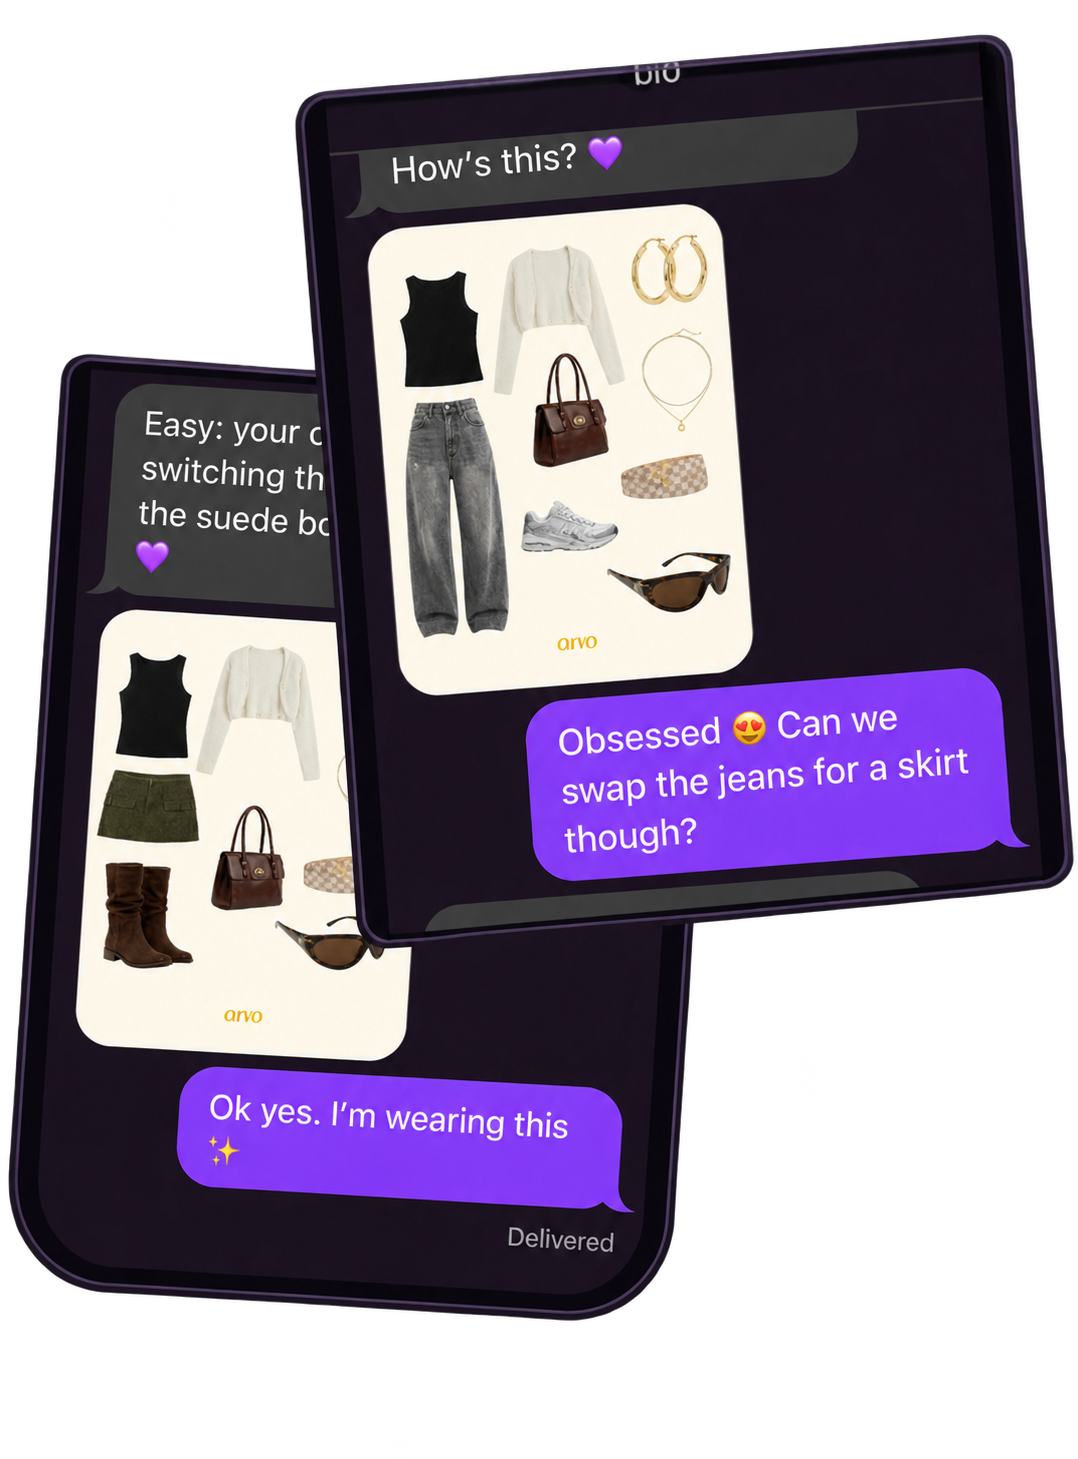
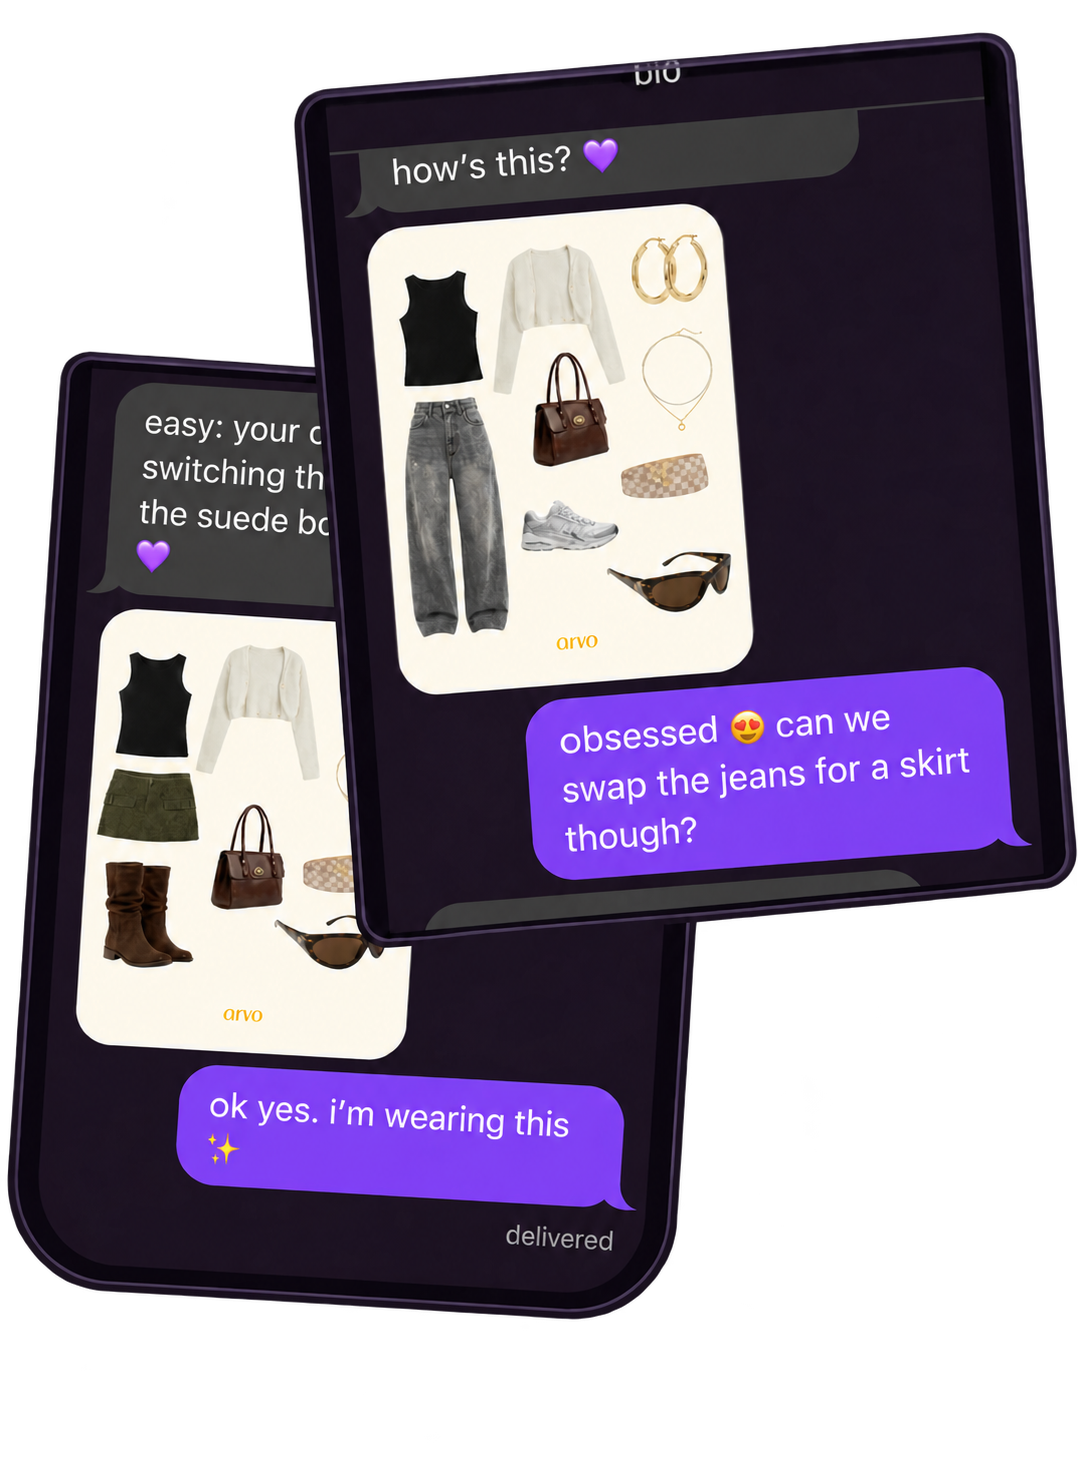
Keep landing copy lowercase and add a menswear demo

diff --git a/src/lib/seo.js b/src/lib/seo.js
@@ -2,9 +2,9 @@ import { PRODUCT_FAQS } from './faqs.js'
 
 export const SITE_URL = 'https://www.askoro.now'
 export const SITE_NAME = 'oro'
-export const SITE_TITLE = 'oro - Your AI stylist, one text away'
+export const SITE_TITLE = 'oro - your ai stylist, one text away'
 export const DEFAULT_DESCRIPTION =
-  'Nothing to wear? Ask oro and discover the gold in your wardrobe.'
+  'nothing to wear? ask oro and discover the gold in your wardrobe.'
 export const DEFAULT_IMAGE = '/favicon.webp'
 export const DEFAULT_IMAGE_META = {
   type: 'image/webp',
@@ -20,33 +20,33 @@ const WEBSITE_ID = `${SITE_URL}/#website`
 export const ROUTE_SEO = {
   feedback: {
     path: '/feedback',
-    title: 'Beta feedback - oro',
-    description: 'Share your oro beta experience using your personal invitation.',
-    h1: 'Beta feedback',
+    title: 'beta feedback - oro',
+    description: 'share your oro beta experience using your personal invitation.',
+    h1: 'beta feedback',
     noindex: true,
   },
   beta: {
     path: '/beta',
-    title: 'Help us make oro yours. - oro beta',
-    description: 'Help shape the earliest oro experience. Meet the beta and our first oronauts.',
-    h1: 'Help us make oro yours.',
+    title: 'help us make oro yours. - oro beta',
+    description: 'help shape the earliest oro experience. meet the beta and our first oronauts.',
+    h1: 'help us make oro yours.',
     noindex: true,
   },
   home: {
     path: '/',
     title: SITE_TITLE,
     description: DEFAULT_DESCRIPTION,
-    h1: 'The #1 AI fashion stylist you can text',
+    h1: 'the ai fashion assistant you can text',
     summary:
-      'oro helps you find your look, whatever your plans. Ask oro, and head out feeling good about what you’re wearing.',
+      'oro helps you find your look, whatever your plans. ask oro, and head out feeling good about what you’re wearing.',
     priority: '1.0',
   },
   'try-oro': {
     path: '/try-oro',
-    title: 'Try oro - AI outfit planner and virtual stylist app',
+    title: 'try oro - ai outfit planner and virtual stylist app',
     description:
-      'Download oro to get outfit ideas from your own clothes, preview looks with virtual try-on, and get dressed faster.',
-    h1: 'Try oro.',
+      'download oro to get outfit ideas from your own clothes, preview looks with virtual try-on, and get dressed faster.',
+    h1: 'try oro.',
     summary:
       'oro is free to start and builds outfits from your actual wardrobe in under a minute.',
     priority: '0.9',
@@ -54,21 +54,21 @@ export const ROUTE_SEO = {
   },
   'how-it-works': {
     path: '/how-it-works',
-    title: 'How oro Works - Outfit ideas from your own closet',
+    title: 'how oro works - outfit ideas from your own closet',
     description:
-      'See how oro turns your wardrobe, plans, taste, weather, and virtual try-on into outfit recommendations.',
-    h1: 'How oro works.',
+      'see how oro turns your wardrobe, plans, taste, weather, and virtual try-on into outfit recommendations.',
+    h1: 'how oro works.',
     summary:
-      'Add your closet, tell oro where you are going, preview the outfit, and leave with a look made from clothes you own.',
+      'add your closet, tell oro where you are going, preview the outfit, and leave with a look made from clothes you own.',
     priority: '0.8',
     faqs: PRODUCT_FAQS,
   },
   'why-oro': {
     path: '/why-oro',
-    title: 'Why oro - Personal styling without buying more clothes',
+    title: 'why oro - personal styling without buying more clothes',
     description:
       'oro is built around your closet, your taste, your body, and your week, so style recommendations feel personal.',
-    h1: 'Why oro?',
+    h1: 'why oro?',
     summary:
       'oro thinks through color, silhouette, occasion, weather, and taste so your wardrobe is easier to use.',
     priority: '0.8',
@@ -86,32 +86,32 @@ export const ROUTE_SEO = {
   },
   manifesto: {
     path: '/honestly',
-    title: 'Honestly - What oro believes about style',
+    title: 'honestly - what oro believes about style',
     description:
-      'Six short beliefs behind oro: personal style, confidence, better outfits, and making the most of your wardrobe.',
-    h1: 'Honestly.',
+      'six short beliefs behind oro: personal style, confidence, better outfits, and making the most of your wardrobe.',
+    h1: 'honestly.',
     summary:
       'oro believes fashion should work for your life, and that the best outfit may already be in your wardrobe.',
     priority: '0.6',
   },
   contact: {
     path: '/contact',
-    title: 'Contact oro - Help, press, partnerships, and feedback',
+    title: 'contact oro - help, press, partnerships, and feedback',
     description:
-      'Contact oro for support, press, partnerships, careers, feedback, or questions about the AI stylist app.',
-    h1: 'Contact oro.',
+      'contact oro for support, press, partnerships, careers, feedback, or questions about the ai stylist app.',
+    h1: 'contact oro.',
     summary:
-      'A real person at oro reads support questions, press notes, partnership inquiries, and product feedback.',
+      'a real person at oro reads support questions, press notes, partnership inquiries, and product feedback.',
     priority: '0.5',
   },
   'get-started': {
     path: '/get-started',
-    title: 'Complete Your Beta Setup - oro',
+    title: 'complete your beta setup - oro',
     description:
-      'Invited to the oro beta? Answer a few quick questions and verify the phone number on your approved invitation.',
-    h1: 'Let’s get you set up.',
+      'invited to the oro beta? answer a few quick questions and verify the phone number on your approved invitation.',
+    h1: 'let’s get you set up.',
     summary:
-      'Approved beta testers complete their oro setup by answering a few questions and verifying their phone number.',
+      'approved beta testers complete their oro setup by answering a few questions and verifying their phone number.',
     priority: '0.8',
   },
   'app-terms': {

diff --git a/src/components/home/StyleAdviceDemo.jsx b/src/components/home/StyleAdviceDemo.jsx
@@ -1,5 +1,5 @@
 import { useEffect, useRef } from 'react'
-import outfitPhoto from '../../assets/fits/fri.webp'
+import outfitPhoto from '../../assets/fits/mens-streetwear.jpg'
 import thinking from '../../assets/mascot/thinking.webp'
 import SmsBubble from './SmsBubble'
 import './ProductDemo.css'
@@ -41,22 +41,22 @@ export default function StyleAdviceDemo() {
     <section className="product-demo style-advice-demo" aria-labelledby="style-advice-demo-title" ref={sectionRef}>
       <div className="halo-container product-demo-inner">
         <h2 id="style-advice-demo-title" className="home-demo-title">send her the fit pic</h2>
-        <p className="home-demo-description">deciding between two outfits? wondering if something looks off?<br />send Oro a photo and get a second opinion.</p>
+        <p className="home-demo-description">deciding between two outfits? wondering if something looks off?<br />send oro a photo and get a second opinion.</p>
         <ol className="product-demo-thread" role="list">
           <li className="product-demo-message product-demo-message--user">
-            <SmsBubble tone="dark-purple" side="right"><span className="sr-only">You: </span>Thoughts on this fit?</SmsBubble>
+            <SmsBubble tone="dark-purple" side="right"><span className="sr-only">you: </span>thoughts on this fit?</SmsBubble>
           </li>
           <li className="product-demo-message product-demo-message--user">
             <SmsBubble tone="dark-purple" side="right">
-              <span className="sr-only">You sent a photo: </span>
-              <img src={outfitPhoto} alt="Pink top, white cardigan and pleated skirt, white sneakers, and a berry-colored bag" loading="lazy" decoding="async" width="408" height="560" />
+              <span className="sr-only">you sent a photo: </span>
+              <img src={outfitPhoto} alt="men’s outfit with a black leather jacket, washed grey cargo jeans, patterned beanie, and dark sneakers" loading="lazy" decoding="async" width="787" height="1400" />
             </SmsBubble>
           </li>
           <li className="product-demo-message style-advice-demo-reply--continued">
-            <SmsBubble><span className="sr-only">Oro: </span>Pink and white is always such a cute color combo! </SmsBubble>
+            <SmsBubble><span className="sr-only">oro: </span>the leather jacket and washed grey cargos work so well together!</SmsBubble>
           </li>
           <li className="product-demo-message">
-            <SmsBubble avatar={thinking}><span className="sr-only">Oro: </span>I'd keep the sneakers for daytime. If you want to dress it up, try ballet flats instead :)</SmsBubble>
+            <SmsBubble avatar={thinking}><span className="sr-only">oro: </span>i’d keep the beanie and sneakers for a relaxed look. swap in black boots when you want to dress it up :)</SmsBubble>
           </li>
         </ol>
       </div>

diff --git a/src/components/home/Home.jsx b/src/components/home/Home.jsx
@@ -12,7 +12,7 @@ import jotting from '../../assets/mascot/jotting.webp'
 const FEATURES = [
   {
     title: 'show her your closet',
-    description: 'send Oro photos of your clothes once. she’ll remember what you own and build outfits from your actual wardrobe.',
+    description: 'send oro photos of your clothes once. she’ll remember what you own and build outfits from your actual wardrobe.',
     image: wardrobeDemo,
     imageAlt: 'Three outfit photos with the clothing pieces shown below them.',
     width: 1312,
@@ -28,14 +28,14 @@ const FEATURES = [
   },
   {
     title: 'the more you text her, the better she gets',
-    description: 'she knows you don’t like jewelry, get cold easily, love those jeans, and have Pilates on Sunday mornings.',
+    description: 'she knows you don’t like jewelry, get cold easily, love those jeans, and have pilates on sunday mornings.',
     image: jotting,
-    imageAlt: 'Oro jotting notes in a notepad.',
+    imageAlt: 'oro jotting notes in a notepad.',
     width: 1500,
     height: 1500,
   },
 ]
-const HEADLINE = 'The AI fashion assistant you can text'
+const HEADLINE = 'the ai fashion assistant you can text'
 const TYPE_STEP = 34
 
 function TypedHeadline() {
@@ -85,17 +85,17 @@ export default function Home() {
             </Text>
             <div className="home-action">
               <HomeCta place="hero" className="home-enter">get her number</HomeCta>
-              {entryCount !== null && <Text variant="support" muted className="home-beta-note home-enter">{entryCount.toLocaleString()} people are trying to get Oro’s number</Text>}
+              {entryCount !== null && <Text variant="support" muted className="home-beta-note home-enter">{entryCount.toLocaleString()} people are trying to get oro’s number</Text>}
             </div>
           </section>
           <ProductDemo />
           <section className="home-panel home-moments-panel" aria-labelledby="home-moments-title" data-home-reveal>
             <Heading as="h2" variant="title" id="home-moments-title" className="home-stagger">she gets your style. and your life.</Heading>
             <Text muted className="home-description home-stagger" style={{ '--home-delay': '120ms' }}>
-              Oro learns what you wear and what you like, so her advice gets more personal the more you text.
+              oro learns what you wear and what you like, so her advice gets more personal the more you text.
             </Text>
           </section>
-          <section className="home-features" aria-label="Oro features">
+          <section className="home-features" aria-label="oro features">
             {FEATURES.map((feature, index) => (
               <article className={`home-feature${index % 2 === 0 ? ' home-feature--media-left' : ''}`} key={feature.title} data-home-reveal>
                 <div className="home-feature-copy home-stagger">

diff --git a/src/components/home/ProductDemo.jsx b/src/components/home/ProductDemo.jsx
@@ -33,29 +33,29 @@ export default function ProductDemo() {
     <section className="product-demo" aria-labelledby="product-demo-title" ref={sectionRef}>
       <div className="halo-container product-demo-inner">
         <h2 id="product-demo-title" className="home-demo-title">text her when you don’t know what to wear</h2>
-        <p className="home-demo-description">tell Oro where you’re going, she’ll figure out the rest.</p>
+        <p className="home-demo-description">tell oro where you’re going, she’ll figure out the rest.</p>
         <ol className="product-demo-thread" role="list">
           <li className="product-demo-message product-demo-message--user">
-            <SmsBubble tone="dark-purple" side="right"><span className="sr-only">You: </span>I'm going out for brunch with friends</SmsBubble>
+            <SmsBubble tone="dark-purple" side="right"><span className="sr-only">you: </span>i'm going out for brunch with friends</SmsBubble>
           </li>
           <li className="product-demo-message">
-            <SmsBubble><span className="sr-only">Oro: </span>I have the perfect look!</SmsBubble>
+            <SmsBubble><span className="sr-only">oro: </span>i have the perfect look!</SmsBubble>
           </li>
           <li className="product-demo-message">
             <SmsBubble avatar={jotting}>
-              <span className="sr-only">Oro: </span>
+              <span className="sr-only">oro: </span>
               <img src={outfit} alt="Outfit collage with a cream cardigan, cherry-print top, flared jeans, red belt, silver hoops, and white sneakers" loading="lazy" decoding="async" width="1086" height="1448" />
             </SmsBubble>
           </li>
           <li className="product-demo-message product-demo-message--user">
-            <SmsBubble tone="dark-purple" side="right"><span className="sr-only">You: </span>I wanna see it on me</SmsBubble>
+            <SmsBubble tone="dark-purple" side="right"><span className="sr-only">you: </span>i wanna see it on me</SmsBubble>
           </li>
           <li className="product-demo-message">
-            <SmsBubble><span className="sr-only">Oro: </span>It looks stunning on you :)</SmsBubble>
+            <SmsBubble><span className="sr-only">oro: </span>it looks stunning on you :)</SmsBubble>
           </li>
           <li className="product-demo-message">
             <SmsBubble avatar={aww}>
-              <span className="sr-only">Oro: </span>
+              <span className="sr-only">oro: </span>
               <img src={tryOn} alt="Try-on with a cream cardigan, cherry-print top, red belt, and light blue flared jeans" loading="lazy" decoding="async" width="480" height="640" />
             </SmsBubble>
           </li>

diff --git a/src/components/beta/Beta.jsx b/src/components/beta/Beta.jsx
@@ -87,7 +87,7 @@ export default function Beta() {
   }, [])
 
   useEffect(() => {
-    document.title = 'Help us make oro yours. - oro'
+    document.title = 'help us make oro yours. - oro'
     const syncLocation = () => {
       const url = new URL(window.location.href)
       const requestedStep = url.searchParams.get('step') || url.hash.slice(1)
@@ -342,7 +342,7 @@ export default function Beta() {
             <div className="beta-social-share">
               <span>share to:</span>
               <Button variant="secondary" aria-label="Open Instagram to post your story" disabled={!inviteLink} onClick={() => { if (storyImage) downloadForShare(); window.open('https://www.instagram.com/', '_blank', 'noopener,noreferrer') }}><InstagramIcon /></Button>
-              <Button variant="secondary" aria-label="Share to X" disabled={!inviteLink} onClick={() => { if (storyImage) downloadForShare(); window.open(`https://x.com/intent/tweet?text=${encodeURIComponent('I’m in line to meet oro ✨ Come join me?')}&url=${encodeURIComponent(inviteLink)}`, '_blank', 'noopener,noreferrer') }}><XIcon /></Button>
+              <Button variant="secondary" aria-label="Share to X" disabled={!inviteLink} onClick={() => { if (storyImage) downloadForShare(); window.open(`https://x.com/intent/tweet?text=${encodeURIComponent('i’m in line to meet oro ✨ come join me?')}&url=${encodeURIComponent(inviteLink)}`, '_blank', 'noopener,noreferrer') }}><XIcon /></Button>
               <Button variant="secondary" aria-label="Share to Facebook" disabled={!inviteLink} onClick={() => { if (storyImage) downloadForShare(); window.open(`https://www.facebook.com/sharer/sharer.php?u=${encodeURIComponent(inviteLink)}`, '_blank', 'noopener,noreferrer') }}><FacebookIcon /></Button>
             </div>
             {inviteLink && <p className="beta-social-share-help">{storyImage ? 'Your image downloads when you open a share link. Add it to your post or story.' : 'The share link is ready. Add the image manually if it becomes available.'}</p>}

diff --git a/src/App.jsx b/src/App.jsx
@@ -55,6 +55,7 @@ function App({ initialRoute }) {
   const isHome = route.type === 'home'
   const isBeta = route.type === 'beta'
   const isFeedback = route.type === 'feedback'
+  const isBlog = route.type === 'newsletter' || route.type === 'journal'
   const isPrivateForm = isBeta || isFeedback || route.type === 'get-started'
   const isHalo = isHome || isPrivateForm || route.type === 'journal' || route.type === 'contact' || route.type === 'newsletter'
   const pageViewParams = {
@@ -134,7 +135,7 @@ function App({ initialRoute }) {
 
   return (
     <ThemeProvider defaultTheme="dark">
-      <div className={`oro-editorial ${isHalo ? 'oro-theme halo-site' : 'min-h-screen overflow-x-clip'}`} style={isHalo ? undefined : { background: 'var(--color-bg)' }}>
+      <div className={`oro-editorial ${isBlog ? '' : 'oro-lowercase'} ${isHalo ? 'oro-theme halo-site' : 'min-h-screen overflow-x-clip'}`} style={isHalo ? undefined : { background: 'var(--color-bg)' }}>
         {isHalo && <a className="halo-skip-link" href="#main">Skip to content</a>}
         {!isBeta && !isFeedback && (isHalo ? <HomeHeader /> : <SiteHeader />)}
         <main id="main" tabIndex={-1}>

diff --git a/src/components/beta/receiptStory.js b/src/components/beta/receiptStory.js
@@ -43,7 +43,7 @@ export async function createReceiptStory(inviteLink, signupNumber) {
   ctx.fillText('good style looks', 118, 1450)
   ctx.fillText('better together', 118, 1510)
   ctx.font = '34px Arial, sans-serif'
-  ctx.fillText('Use my personal invite link:', 118, 1580)
+  ctx.fillText('use my personal invite link:', 118, 1580)
   ctx.fillStyle = '#49346c'
   ctx.font = '30px Arial, sans-serif'
   if (inviteLink) {
@@ -51,7 +51,7 @@ export async function createReceiptStory(inviteLink, signupNumber) {
     ctx.fillText(url.host + url.pathname, 118, 1640, 844)
     ctx.fillText(url.search.slice(0, 45), 118, 1680, 844)
     ctx.fillText(url.search.slice(45), 118, 1720, 844)
-  } else ctx.fillText('Your link appears here', 118, 1640)
+  } else ctx.fillText('your link appears here', 118, 1640)
   ctx.drawImage(logo, 70, 1780, 180, 101)
 
   const blob = await new Promise((resolve) => canvas.toBlob(resolve, 'image/png'))

diff --git a/e2e/home.spec.js b/e2e/home.spec.js
@@ -6,7 +6,7 @@ test('home page loads cleanly @smoke', async ({ page }) => {
   page.on('console', (message) => { if (message.type() === 'error') errors.push(message.text()) })
   await page.goto('/')
   await expect(page).toHaveTitle(/oro/i)
-  await expect(page.getByRole('heading', { level: 1 })).toHaveText('The AI fashion assistant you can text')
+  await expect(page.getByRole('heading', { level: 1 })).toHaveText('the ai fashion assistant you can text')
   await expect(page.getByRole('heading', { level: 1 })).toHaveCSS('font-family', 'Fraunces, Georgia, serif')
   await expect(page.getByText(/600\+/)).toHaveCount(0)
   await expect(page.getByText(/Getting dressed is one text away/)).toBeVisible()

diff --git a/src/index.css b/src/index.css
@@ -58,6 +58,16 @@ a, button, input {
   transition: all 0.25s ease;
 }
 
+.oro-lowercase,
+.oro-lowercase :where(button, select, option),
+.oro-lowercase :where(input, textarea)::placeholder {
+  text-transform: lowercase;
+}
+
+.oro-lowercase :where(input, textarea) {
+  text-transform: none;
+}
+
 /* Keyboard focus — gold ring reads on both plum and cream (see design-system
    hover/focus convention). Only :focus-visible, so mouse clicks stay clean. */
 a:focus-visible,
